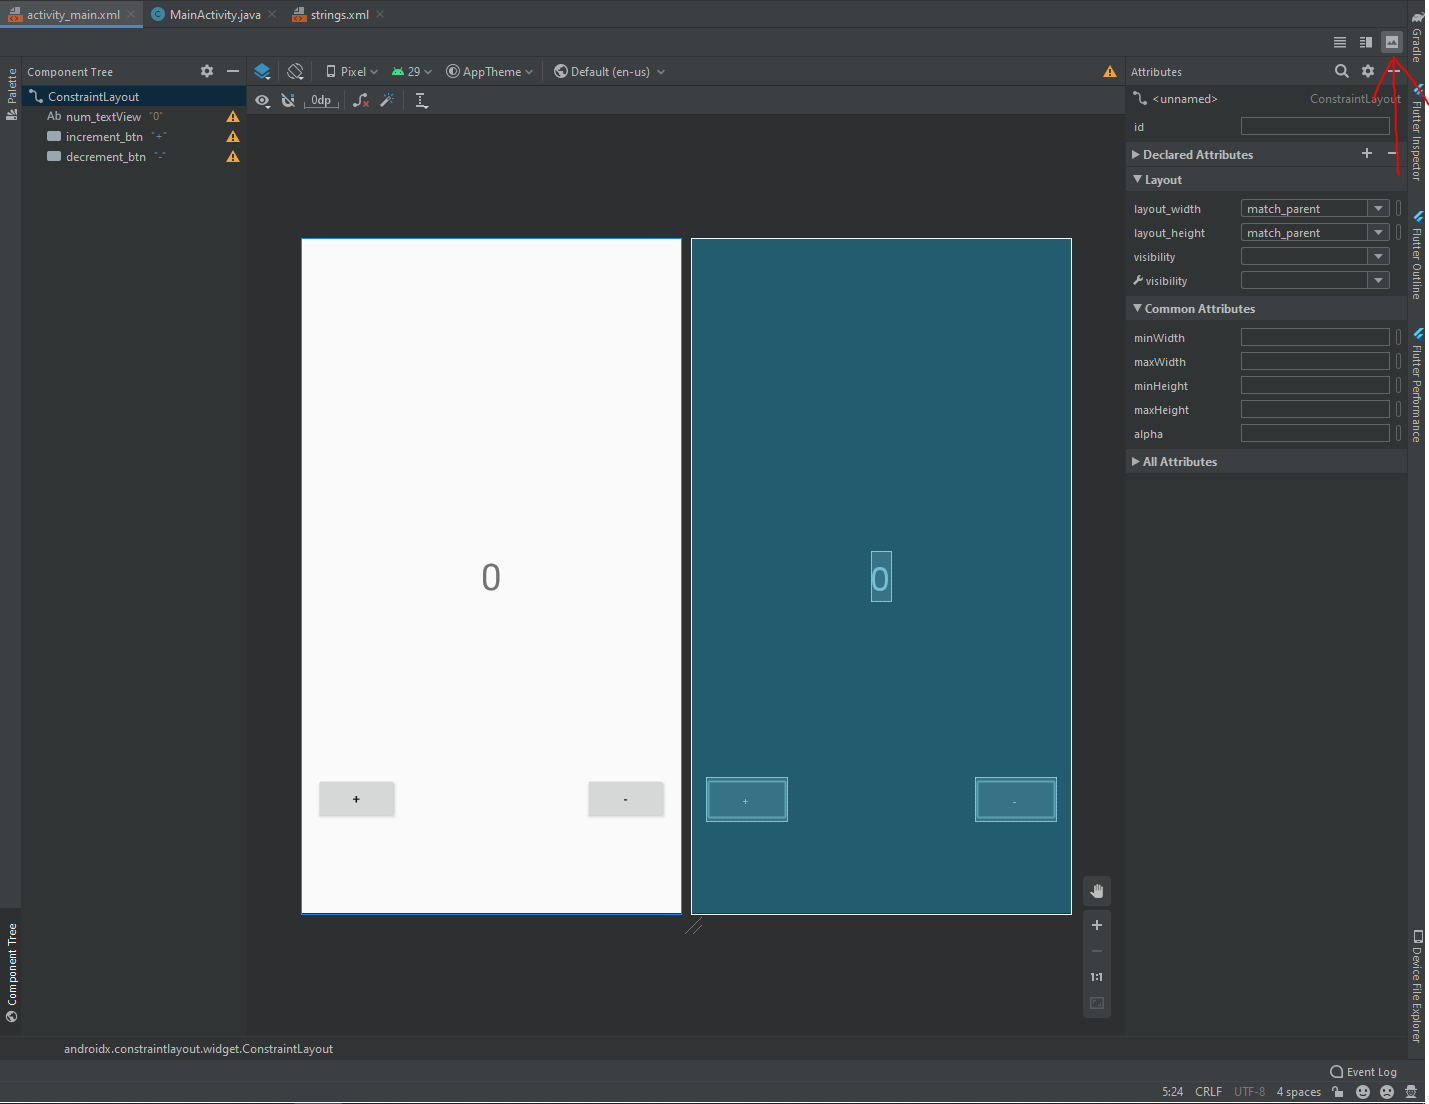
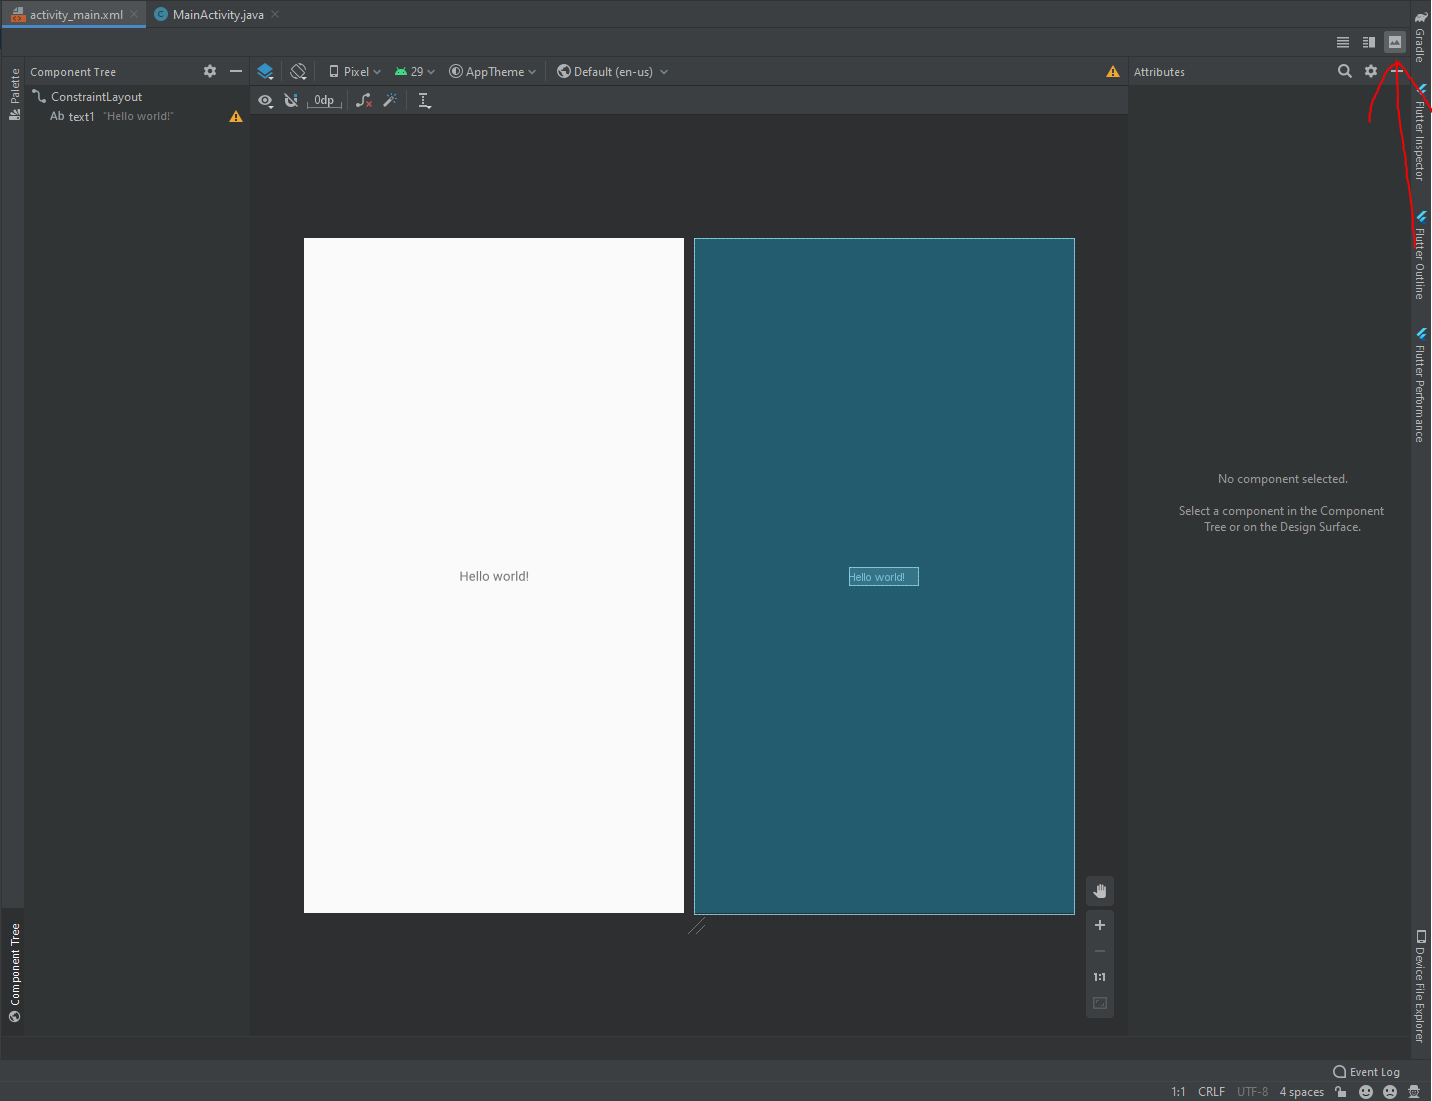
readme day1 complete

diff --git a/Day1/README.md b/Day1/README.md
@@ -4,32 +4,104 @@
 
 By Ahmed Mustafa, Core Team member and Android lead @ DSC-IBA
 
-# TASK 1: Open activity_main.xml
+# Front End:
+
+
+# Widgets we used today:
+
+## Button:
+We created two buttons today, an increment and a decrement button.
+
+![](images/twoButtons.PNG)
+
+## TextView:
+We also created a TextView today to save the result of our actions if you remember clearly.
+
+![](images/textView.PNG)
+
+## TASK 1: Open activity_main.xml
 
 On your left panel, make sure you've selected Android. Then:
 Press app -> res -> layout -> open activity_main.xml
 
 ![](images/leftPane.PNG)
 
-# TASK 2: Open XML editing and Palette
+## TASK 2: Open XML editing and Palette
 
 Follow the arrows in the picture to do the above mentioned two things.
 
-## For XML editing mode:
+### For XML editing mode:
 
 ![](images/frontSelection.PNG)
 
-## To open Palette:
+### To open Palette:
 
-![](images/openPallete.PNG)
+![](images/openPalette.PNG)
 
-# TASK 3: Change text from hello world to your name and give it an id.
+## TASK 3: Change text from hello world to your name and give it an id.
 
 ![](images/editText.PNG)
 
-#TASK 4: Drag and drop a button on your screen
+## TASK 4: Drag and drop a button on your screen
 
 ![](images/button.PNG)
 
-Download the latest at [Android Studio](https://developer.android.com/studio/index.html)
+# Back End:
+
+## TASK 1: Open MainActivity.java
+
+On your left panel again, make sure you've selected Android on top. Then:
+Press app -> java -> com.example.yourappname -> MainActivity
+
+![](images/leftPaneJava.PNG)
+
+## TASK 2: Declare variables
+
+There are multiple ways to declare variables. For modularity, we'll declare them at the top under:
+public class MainActivity extends App Compat Activity{
+
+![](images/declaration.PNG)
+
+Here:
+
+We have declared two Buttons called increment and decrement respectively.
+We have also declared a TextView called result.
+
+## TASK 3: Initialize variables
+
+In order to bind declared variables to our backend, we use "findViewById" method and Android's "R" class.
+The following code snipped initialises our previously declared variables increment, decrement and result to their respective front-end variables with ids: increment_btn, decrement_btn and num_textView
+
+![](images/initialization.PNG)
+
+## TASK 4: OnClick Listeners
+
+Since we have two buttons with separate functionality (one increments our result and one decrements), hence we need two separate on click listeners.
+
+The function onClick gets triggered everytime you press the widget its applied to.
+
+![](images/onclick.PNG)
+
+## Front End Code:
+
+The picture attached below contains all the code that we wrote today. On the right, it also shows how it looks like on screens.
+
+![](images/fullFrontend.PNG)
+
+## Back End Code:
+
+This is the entire code we've written today. Remember that Line 19 (which I've highlighted), was used to show an output on our Logcat.
+
+![](images/fullBackend.PNG)
+
+## Final App:
+
+![](images/appScreenshot.PNG)
+
+### Tada!!!
+We've finally done it! Our counter app is up and running on our emulators!
+
+Thanks for coming!
+
+Download the latest Android Studio at [Android Studio](https://developer.android.com/studio/index.html)
 
